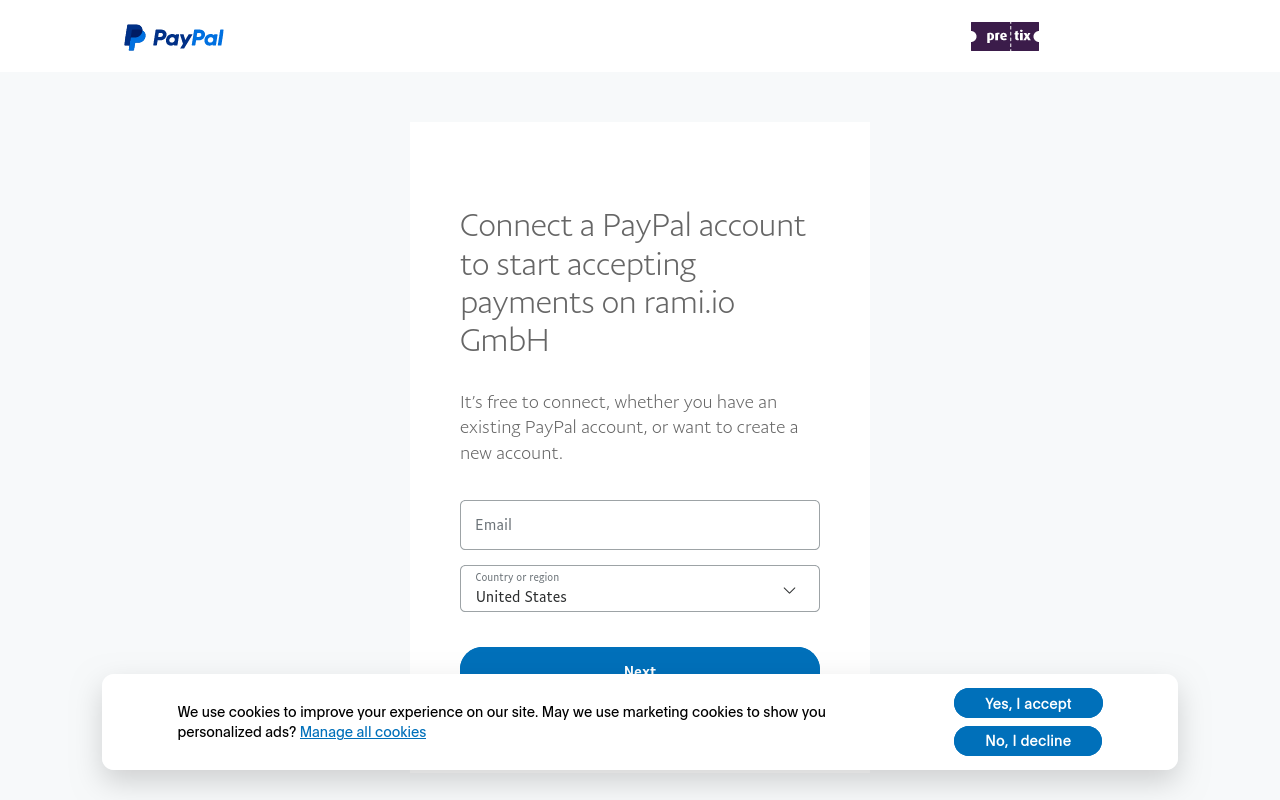
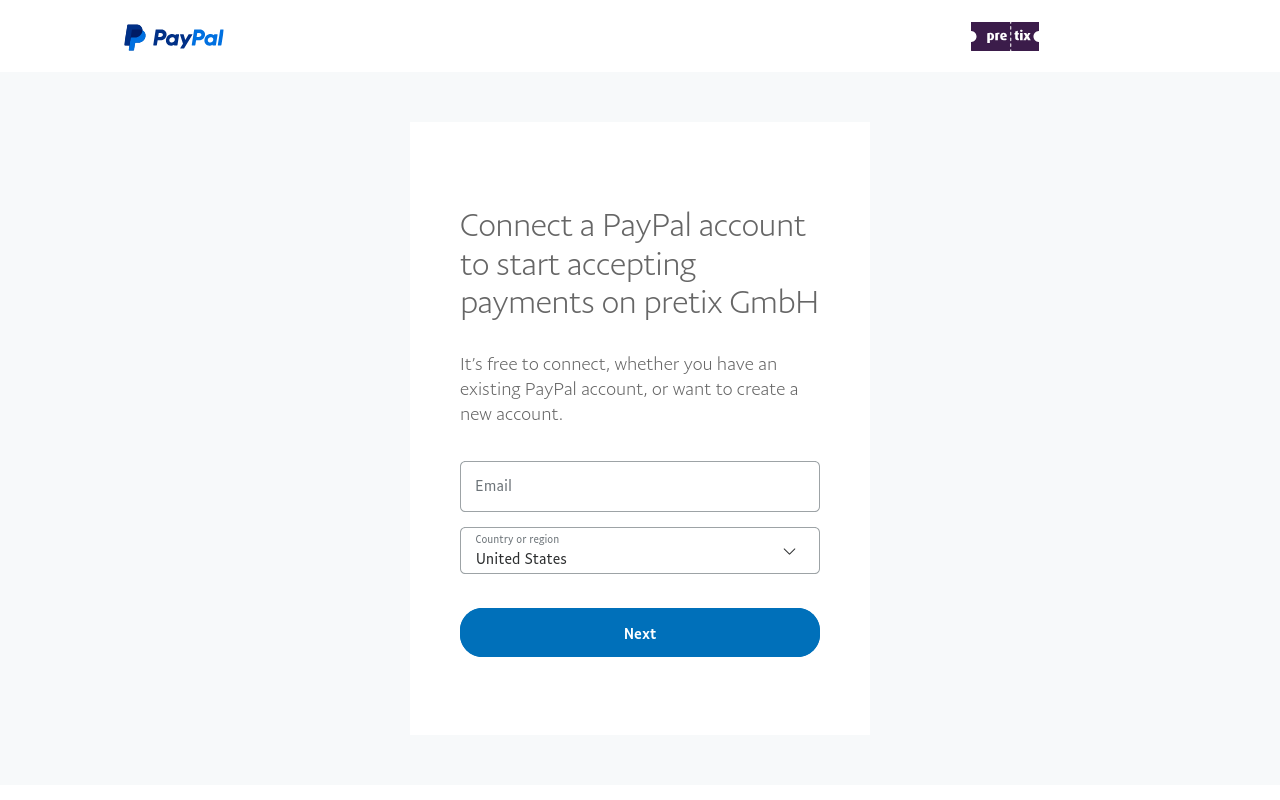
Search and replace "rami.io GmbH" with "pretix GmbH" or "pretix GmbH (previously rami.io GmbH)" where appropriate

Changed region(s): [[0.0938, 0.8438, 0.9062, 1.0], [0.3438, 0.4062, 0.6562, 0.8438], [0.5, 0.375, 0.625, 0.4062]]

diff --git a/overrides/hooks/shortcodes.py b/overrides/hooks/shortcodes.py
@@ -1,7 +1,7 @@
 # Inspired by mkdocs-material
 # Copyright (c) 2016-2024 Martin Donath <martin.donath@squidfunk.com>
 # Adjusted
-# Copyright (c) 2024 rami.io GmbH
+# Copyright (c) 2024 pretix GmbH (previously rami.io GmbH)
 
 # Permission is hereby granted, free of charge, to any person obtaining a copy
 # of this software and associated documentation files (the "Software"), to

diff --git a/docs/trust/licensing/faq.md b/docs/trust/licensing/faq.md
@@ -20,7 +20,7 @@ The second and third additional term for pretix are additional terms that restri
 
 pretix was born in the open source community and we're deeply committed to building the best open source ticketing solution in the world. It is important to us that pretix is available with a comprehensive feature set under term that are compatible with the [Open Source Definition](https://opensource.org/osd). This enables event organizers from all industries and regions to have access to a self-hosted, privacy-friendly and secure option to host their events.
 
-However, developing and maintaining pretix is a lot of work. Between 2014 and 2021, we've received external contributions from more than 150 individuals. Not counting translations over 90 % of the development was done by staff engineers of rami.io GmbH, the company that started pretix. While we're very happy to receive many more contributions in the future, we also want to ensure that we continue to be able to pay people working on pretix full-time.
+However, developing and maintaining pretix is a lot of work. Between 2014 and 2021, we've received external contributions from more than 150 individuals. Not counting translations over 90 % of the development was done by staff engineers of pretix GmbH, the company that started pretix. While we're very happy to receive many more contributions in the future, we also want to ensure that we continue to be able to pay people working on pretix full-time.
 
 We believe our model creates a good balance between ensuring pretix is available freely as well as protecting our business interests. Unlike licenses chosen by other projects recently, such as the Server-Side Public License, our choice does not restrict using pretix for any possible use case, it just sets a few rules that you have to play by if you do.
 
@@ -70,10 +70,10 @@ In this case, feel free to get in touch with us! We're happy to grant you specia
 
 ## What can I use the name "pretix" for?
 
-The name pretix is a registered trademark by rami.io GmbH.
+The name pretix is a registered trademark by pretix GmbH (previously rami.io GmbH).
 
 -   You **may** use it to **indicate copyright**, such as in the "powered by pretix" or "based on pretix" line, or when indicating that a distribution is based on pretix.
 -   You **may** use it to **indicate compatibility**, for example you are allowed to name your plugin "&lt;name&gt; for pretix" or you may state that an external service is compatible with pretix.
--   You **may not** give the impression that your modified version, plugin or compatible service is official or authorized by rami.io GmbH or pretix unless we specifically allowed you to do so.
+-   You **may not** give the impression that your modified version, plugin or compatible service is official or authorized by pretix GmbH (previously rami.io GmbH) or pretix unless we specifically allowed you to do so.
 -   You **may not** use it to name your modified version of pretix. End-users must be able to easily identify whether a version of pretix is distributed by us.
 -   You **may not** use any variations of the name, such as "MyPretix".

diff --git a/docs/trust/security/disclosure.md b/docs/trust/security/disclosure.md
@@ -31,7 +31,7 @@ We will only issue [CVE](https://en.wikipedia.org/wiki/Common_Vulnerabilities_an
 
 ## CVE Numbering Authority
 
-rami.io GmbH has been authorized by the CVE Program as a CVE Numbering Authority (CNA) for any vulnerabilities in our own products.
+pretix GmbH (previously rami.io GmbH) has been authorized by the CVE Program as a CVE Numbering Authority (CNA) for any vulnerabilities in our own products.
 CNAs are organizations responsible for the regular assignment of CVE IDs to vulnerabilities, and for creating and publishing information about the vulnerability in the associated CVE Record.
 Our CNA assigns CVE numbers only for the products and services listed above.
 
@@ -47,7 +47,7 @@ Security incidents concerning products under the pretix brand are announced on t
 
 ## Bug Bounties
 
-rami.io GmbH is not a large enough company to run a formal bug bounty program.
+pretix GmbH is not a large enough company to run a formal bug bounty program.
 If you find a serious vulnerability in our service, we will find a way to show our gratitude.
 We have, on occasion, issued monetary bug bounties for issues of high severity in our core services.
 

diff --git a/docs/guides/payment/paypal.md b/docs/guides/payment/paypal.md
@@ -43,7 +43,7 @@ Click on the :btn-icon:fontawesome-solid-gear:Settings: button next to PayPal.
 This takes you to the settings page for PayPal, which currently only includes the :btn:Connect with PayPal: button. 
 Click the button and complete the the login and authorization process with PayPal. 
 
-![PayPal website with the pretix logo in the top right and a dialog in the center telling you to 'Connect a PayPal account to start accepting payments on rami.io GmbH'. You can enter your email and country or region below.](../../assets/screens/payment-providers/paypal-connect-account.png "Connecting to PayPal" )
+![PayPal website with the pretix logo in the top right and a dialog in the center telling you to 'Connect a PayPal account to start accepting payments on pretix GmbH'. You can enter your email and country or region below.](../../assets/screens/payment-providers/paypal-connect-account.png "Connecting to PayPal" )
 
 After you have completed the authorization process with PayPal, the PayPal settings page in the pretix backend will look different. 
 Instead of the single button, it will now offer a multitude of settings. 

diff --git a/docs/trust/fiscal/germany.md b/docs/trust/fiscal/germany.md
@@ -87,5 +87,5 @@ If you use a cash register, take the following steps to ensure that you are comp
 - Export data in an officially defined format. 
   pretixPOS can export data in the [DSFinV-K](https://www.bzst.de/DE/Unternehmen/Aussenpruefungen/DigitaleSchnittstelleFinV/digitaleschnittstellefinv_node.html) format.
 
-rami.io GmbH is a member of the [German association of cash register manufacturers](https://dfka.net/). 
+pretix GmbH (previously rami.io GmbH) is a member of the [German association of cash register manufacturers](https://dfka.net/). 
 This means that we always stay up-to-date with changes in cash register regulation.
